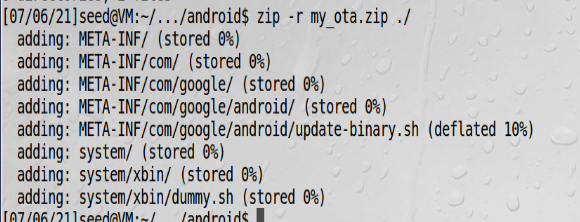
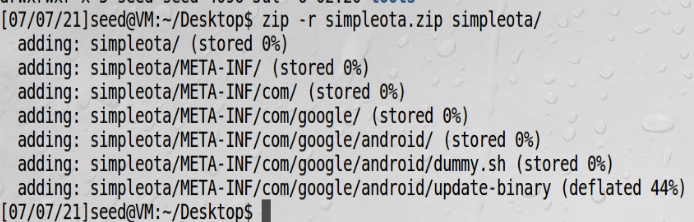
rooting攻击

diff --git a/docs/anrooting/simple-ota.md b/docs/anrooting/simple-ota.md
@@ -1,4 +1,4 @@
-# 安卓rooting
+# 写一个OTA并升级
 
 ## rooting背景
 
@@ -38,7 +38,7 @@ rooting概览：
     安卓有三种编译选项，分别是eng、user、userdebug。eng是用于工程版本，user用于发行版本，userdebug
     是部分调试版本
     
-## task1: 编译一个简单的OTA包
+## 写一个简单的OTA包
 
 准备一个攻击脚本dummy.sh，让recovery系统启动时运行该脚本  
 ```bash
@@ -49,9 +49,11 @@ echo hello > /system/dummy
 dummy.sh这个文件应放在/android目录下，因为安卓分区已经挂载到这个目录下了，安卓是建立在linux系统上的，
 启动时，linux是先启动，启动过程用/system/etc/init.sh这个脚本，我们通过在init.sh中插入命令来启动dummy.sh，
 由于我们是通过OTA方式修改文件，通过以下命令可实现这个目的：  
-update-binary.sh文件内容：  
+update-binary文件内容：  
 ```bash
-sed -i "/return 0/i /system/xbin/dummy.sh" /android/system/etc/init.sh
+cp dummy.sh /android/system/xbin
+chmod a+x /android/system/xbin/dummy.sh
+sed -i "/return 0/i/system/xbin/dummy.sh" /android/system/etc/init.sh
 ```
 -i表示编译文件  
 /return 0/ 表示找到return 0这行代码  
@@ -61,6 +63,8 @@ i 表示在找到的代码前插入
 
 **2、编译OTA包**，按如下目录构造OTA包  
 ![构造ota包](../img/anrooting-otatree.png)  
+记得要给update-binary可执行权限
+![可执行权限](../img/anrooting-chmod.png)
 打包ota  
 ![打包ota](../img/anrooting-otazip.png)
 
@@ -70,85 +74,35 @@ i 表示在找到的代码前插入
     解压缩命令： unzip -l my_ota.zip
 
 由于我们用的是ubuntu系统作为恢复系统，它没有恢复功能，所以我们需要自己构造恢复功能，就是说，需要自己对ota包解压，
-然后执行update-binary
+然后执行update-binary  
+在一个正常的物理机中，可以使用adb来远程安装ota包，但是在我们实验环境不行，必须要拷贝到安卓虚拟机，安卓虚拟机的恢复
+模式开启了ssh服务，故先要安卓虚拟机进入恢复模式
 
-## task2: 通过app_process注入代码
+!!! warning
 
-安卓启动过程：会运行一个叫app_process的程序，这个程序是由一个叫Zygote的守护进程启动的（也是所有app的守护进程），
-我们的目标是修改app_process，直接创建一个/system/dummy2文件
+    特别要注意的是恢复模式的ip和安卓虚拟机ip不一样
 
-app_process.c文件：
-```c
-#include <stdio.h>
-#include <stdlib.h>
-#include <unistd.h>
-extern char** environ;
+安卓虚拟机恢复模式下，在ubuntu虚拟机中就可以使用scp命令把ota包拷过去  
+![拷贝ota包](../img/anrooting-scp.png)
 
-int main(int argc, char** argv) {
-    //Write the dummy file
-    FILE* f = fopen("/system/dummy2", "w");
-    if (f == NULL) {
-    printf("Permission Denied.\n");
-    exit(EXIT_FAILURE);
-    }
-    fclose(f);
-    //Launch the original binary
-    char* cmd = "/system/bin/app_process_original";
-    execve(cmd, argv, environ);
-    //execve() returns only if it fails
-    return EXIT_FAILURE;
-}
-```
-我们首先把原始app_process重命名为app_process_original
+之后我们在恢复模式下解包，并执行update-binary  
+![解包并执行](../img/anrooting-unzip.png)
 
-!!! NDK
+初步验证脚本执行成功了
+![脚本执行结果](../img/anrooting-update-result.png)
 
-    Native Development Kit(NDK)是一个用来编译在安卓系统运行的c/c++工具，这种类型的代码，叫原生代码，
-    可以在原生程序中独立存在也能被安卓app中的java代码通过JNI调用（Jave Native Interface）
+重启安卓虚拟机正常进入，可以看到我们预置的功能已经被成功执行了
+![查看ota结果](../img/anrooting-ota-result.png)
 
-我们的app_process程序是一个独立的原生程序，必须用NDK来编译，为了使用NDK，必须创建两个文件：Application.mk
-和Android.mk  
+    
+## 真实设备ota升级
 
-Application.mk:
-```mk
-APP_ABI := x86
-APP_PLATFORM := android-22
-APP_STL := stlport_static
-APP_BUILD_SCRIPT := Android.mk
-```
-
-Android.mk:  
-```mk
-LOCAL_PATH := $(call my-dir)
-include $(CLEAR_VARS)
-LOCAL_MODULE := app_process
-LOCAL_SRC_FILES := app_process.c
-include $(BUILD_EXECUTABLE)
-```
-
-编译脚本complie.sh：  
+在真实手机中，利用ota刷机，可以用adb sideload命令，一般是用以下几个命令
 ```bash
-export NDK_PROJECT_PATH=.
-ndk-build NDK_APPLICATION_MK=./Application.mk
+adb connect 10.0.2.4
+adb reboot recovery
+adb sideload ota.zip
 ```
 
-![编译原生代码](../img/anrooting-complie-native.png)
-可以看到编译完后的代码在/libs/x86目录下
+[sideload升级OTA](https://9to5google.com/2017/10/24/how-to-manually-sideload-install-ota-update-file-android-basics/)
 
-## 获取root窗口
-
-在一个典型的Linux系统中，可以通过设置set-uid比特位的方式通过shell程序来获取root权限，但是安卓系统在4.3版本后，
-已经去掉了set-uid机制。  
-另一个在启动过程中获取root shell的方法是通过OTA包，比如有名的SuperSU。本次实验通过守护进程获取一个root shell，
-过程是起一个客户端程序，向有root权限的守护进程发请求，守护进程会起一个shell进程，允许用户控制这个进程  
-
-![文件描述符](../img/anrooting-file-desc.png)  
-文件描述符用一个例子来说明，以上图实现的功能是，进程1的输入和进程0一样，标准输出和错误输出都丢弃
-
-![获取root过程](../img/anrooting-gain-root.png)  
-客户端获取另一个进程输入输出设备过程： 开始时，客户端和服务器都运行在各自进程，客户端只有普通权限，服务器有root
-权限，图b展示了客户端获取root权限过程：  
-1、客户端用socket连接服务器  
-2、收到请求后，服务器fork一个子进程root运行，子进程继承了所有服务器的I/O设备  
-3、客户端发送文件描述符给子进程，这些描述符分别用4、5、6保存  
-4、子进程重定向设备描述符，现在客户端进程和子进程共享设备描述符了  

diff --git a/docs/anrooting/ndk-ota.md b/docs/anrooting/ndk-ota.md
@@ -1,0 +1,101 @@
+# NDK编译原生代码注入攻击
+
+我们的app_process程序是一个独立的原生程序，必须用NDK来编译
+
+!!! NDK
+
+    Native Development Kit(NDK)是一个用来编译在安卓系统运行的c/c++工具，这种类型的代码，叫原生代码，
+    可以在原生程序中独立存在也能被安卓app中的java代码通过JNI调用（Jave Native Interface）
+    
+## 通过app_process注入代码
+
+安卓启动过程：会运行一个叫app_process的程序，这个程序是由一个叫Zygote的守护进程启动的（也是所有app的守护进程），
+我们的目标是修改app_process，直接创建一个/system/dummy2文件
+
+app_process.c文件：
+```c
+#include <stdio.h>
+#include <stdlib.h>
+#include <unistd.h>
+extern char** environ;
+
+int main(int argc, char** argv) {
+    //Write the dummy file
+    FILE* f = fopen("/system/dummy2", "w");
+    if (f == NULL) {
+    printf("Permission Denied.\n");
+    exit(EXIT_FAILURE);
+    }
+    fclose(f);
+    //Launch the original binary
+    char* cmd = "/system/bin/app_process_original";
+    execve(cmd, argv, environ);
+    //execve() returns only if it fails
+    return EXIT_FAILURE;
+}
+```
+我们首先把原始app_process重命名为app_process_original
+
+
+
+为了使用NDK，必须创建两个文件：Application.mk和Android.mk  
+
+Application.mk:
+```mk
+APP_ABI := x86
+APP_PLATFORM := android-21
+APP_STL := stlport_static
+APP_BUILD_SCRIPT := Android.mk
+```
+
+Android.mk:  
+```mk
+LOCAL_PATH := $(call my-dir)
+include $(CLEAR_VARS)
+LOCAL_MODULE := app_process
+LOCAL_SRC_FILES := app_process.c
+include $(BUILD_EXECUTABLE)
+```
+
+编译脚本complie.sh：  
+```bash
+export NDK_PROJECT_PATH=.
+ndk-build NDK_APPLICATION_MK=./Application.mk
+```
+
+![编译原生代码](../img/anrooting-complie-native.png)
+可以看到编译完后的代码在/libs/x86目录下
+
+## 制作OTA包
+
+准备update-binary脚本  
+```bash
+mv /android/system/bin/app_process32 /android/system/bin/app_process_original
+cp app_process /android/system/bin/app_process32
+chmod a+x /android/system/bin/app_process32
+```
+
+给update-binary可执行权限，并按如下格式准备好ota包，并打包  
+![准备OTA](../img/anrooting-ndkota.png)
+
+## 安卓虚拟机进入recovery模式
+
+必须登录普通账号不能是root账号，否则无法远程拷贝  
+![进入recovery](../img/anrooting-login-recovery.png)
+
+## ubuntu把包拷贝到安卓
+
+![拷贝到安卓](../img/anrooting-scp-ndk.png)
+
+## recovery模式下执行update-binary
+
+![解包并执行](../img/anrooting-unzip-exe.png)
+
+初步验证一下update-binary执行了  
+![验证执行](../img/anrooting-confirm.png)
+
+## 验证注入效果
+
+重启进入安卓系统，验证app_process32被执行了  
+![验证注入效果](../img/anrooting-confirm-inject.png)  
+可以看到我们通过修改升级过程中的文件注入了一个有root权限的恶意文件  

diff --git a/docs/anrooting/rooting.md b/docs/anrooting/rooting.md
@@ -1,0 +1,47 @@
+# 实现rooting攻击
+
+## 获取root窗口
+
+在一个典型的Linux系统中，可以通过设置set-uid比特位的方式通过shell程序来获取root权限，但是安卓系统在4.3版本后，
+已经去掉了set-uid机制。  
+另一个在启动过程中获取root shell的方法是通过OTA包，比如有名的SuperSU。本次实验通过守护进程获取一个root shell，
+过程是起一个客户端程序，向有root权限的守护进程发请求，守护进程会起一个shell进程，允许用户控制这个进程  
+
+![文件描述符](../img/anrooting-file-desc.png)  
+文件描述符用一个例子来说明，以上图实现的功能是，进程1的输入和进程0一样，标准输出和错误输出都丢弃
+
+![获取root过程](../img/anrooting-gain-root.png)  
+客户端获取另一个进程输入输出设备过程： 开始时，客户端和服务器都运行在各自进程，客户端只有普通权限，服务器有root
+权限，图b展示了客户端获取root权限过程：  
+1、客户端用socket连接服务器  
+2、收到请求后，服务器fork一个子进程root运行，子进程继承了所有服务器的I/O设备  
+3、客户端发送文件描述符给子进程，这些描述符分别用4、5、6保存  
+4、子进程重定向设备描述符，现在客户端进程和子进程共享设备描述符了 
+
+## 准备实验代码
+
+由于这个seed实验非常复杂，这次提供的是完整的源代码，地址是[rooting源代码](https://seedsecuritylabs.org/Labs_20.04/Mobile/Android_Rooting/files/SimpleSU.zip)  
+下载并解压源代码  
+![解压源代码](../img/anrooting-simplesu.png)
+
+编译代码，生成两个可执行文件mysu、mydaemon    
+![编译代码](../img/anrooting-compile-simplesu.png)
+
+
+## 准备update-binary
+
+update-binary如下：  
+```bash
+cp mysu /android/system/xbin
+cp mydaemon /android/system/xbin
+sed -i "/return 0/i /system/xbin/mydaemon" /android/system/etc/init.sh
+```
+并给update-binary赋予可执行权限  
+
+## 准备OTA包
+
+准备三个可执行文件和目录  
+![可执行文件](../img/anrooting-perpare-exe.png)
+
+打成zip包  
+![打包ota](../img/anrooting-suota-zip.png)

diff --git a/docs/index.md b/docs/index.md
@@ -189,6 +189,8 @@
     <tr>
         <td><strong>安卓rooting</strong></td>
         <td><a href="anrooting/basic">前置知识</a></td>
-        <td><a href="anrooting/simple-ota">简单ota</a></td>
+        <td><a href="anrooting/simple-ota">写一个ota并升级</a></td>
+        <td><a href="anrooting/ndk-ota">NDK编译原生代码注入攻击</a></td>
+        <td><a href="anrooting/rooting">实现rooting攻击</a></td>
     </tr>
 </table>
